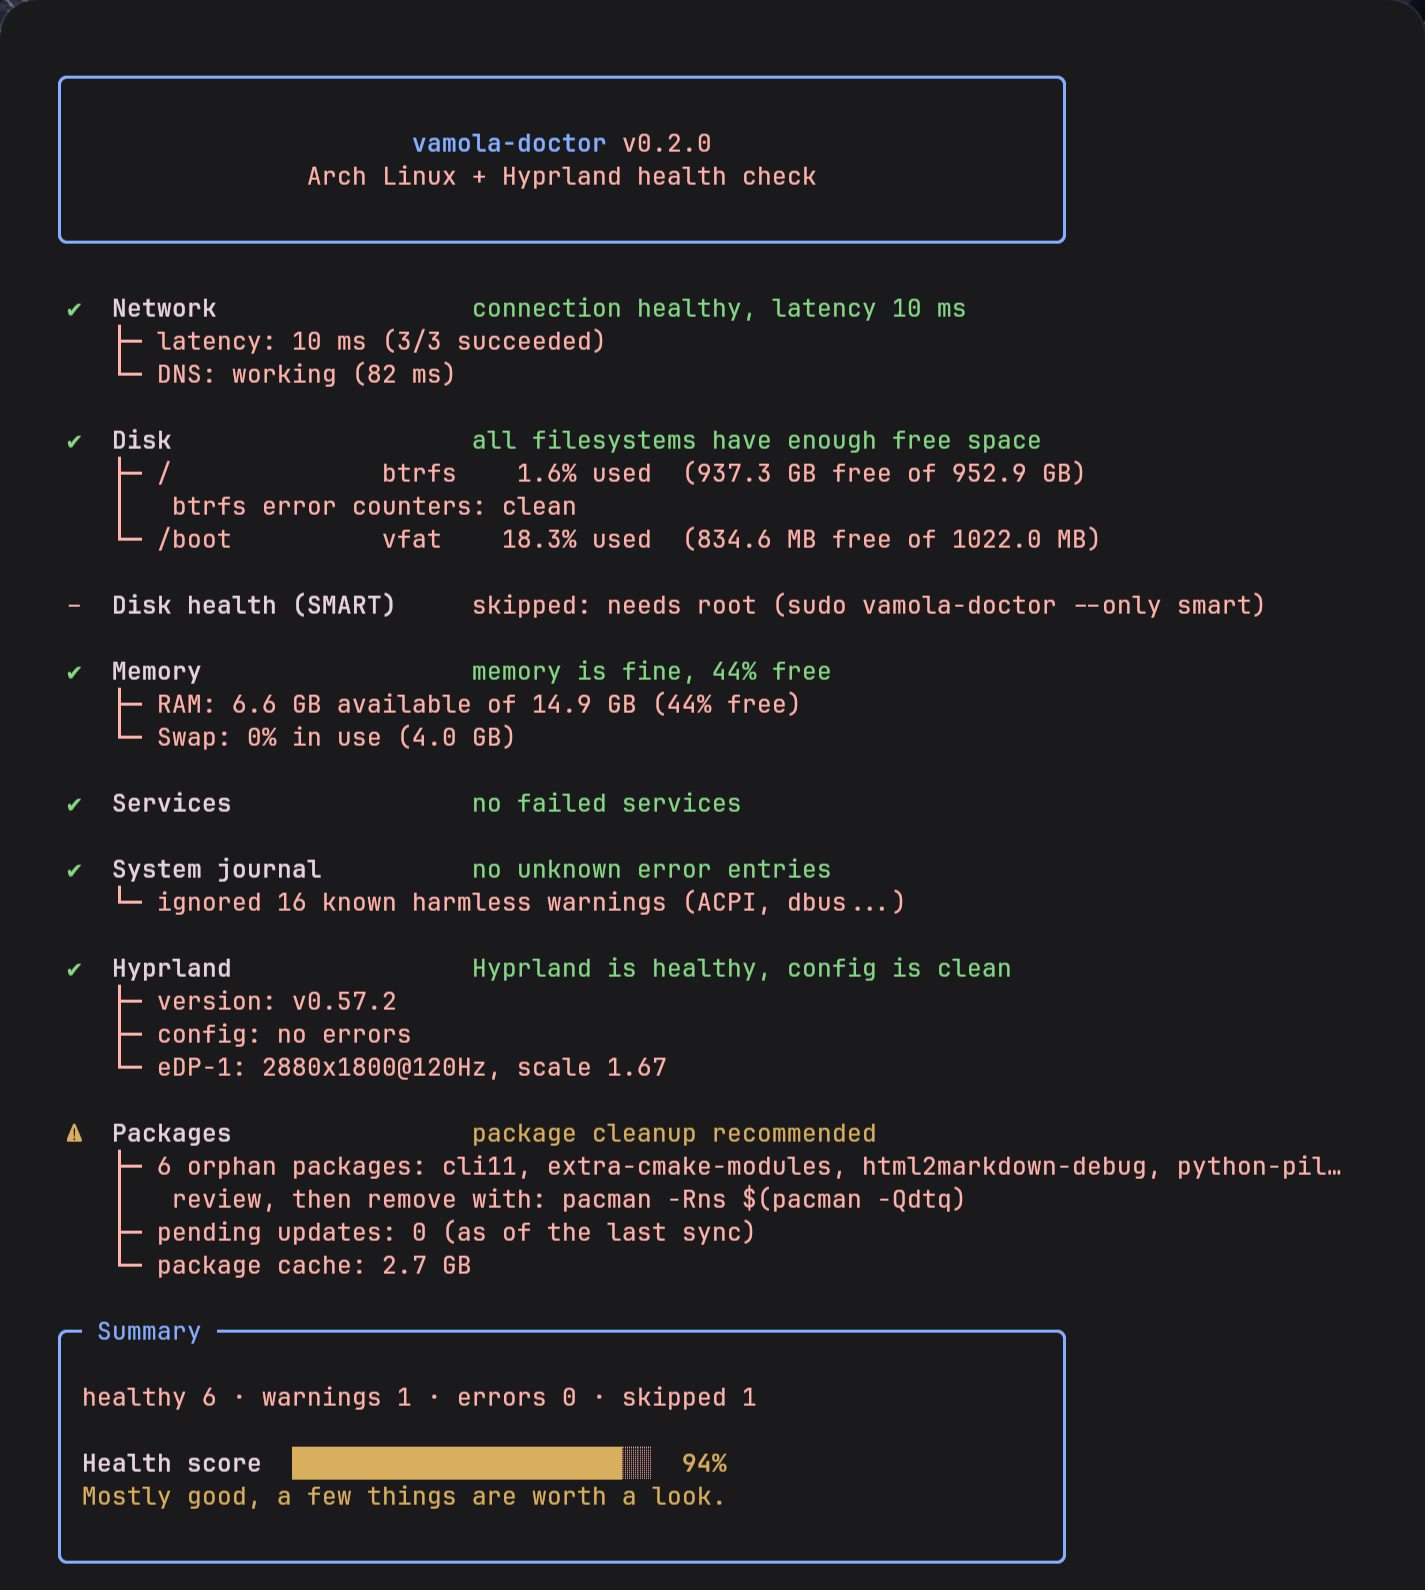
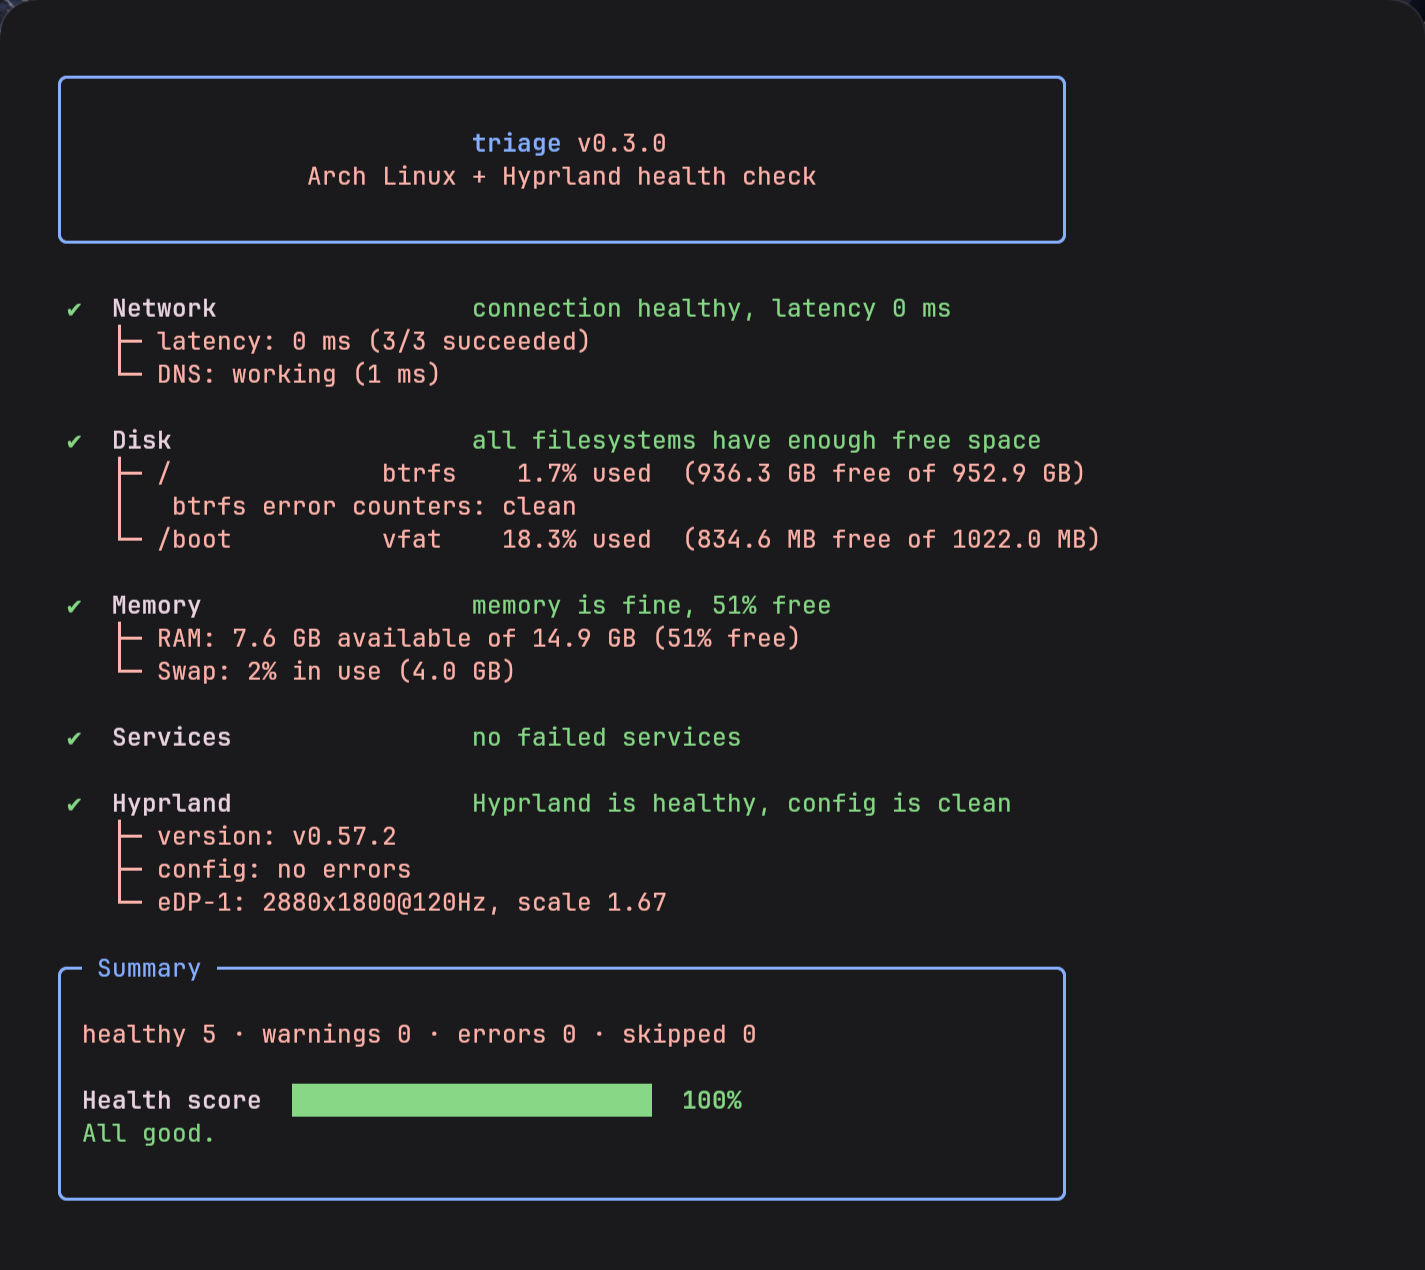
Rename vamola-doctor to triage, v0.3.0: CI, community files, new screenshot

Changed region(s): [[0.0309, 0.1843, 0.8954, 0.9827], [0.0309, 0.0307, 0.7411, 0.1535], [0.8337, 0.7063, 0.9263, 0.737]]

diff --git a/internal/i18n/catalog.go b/internal/i18n/catalog.go
@@ -37,7 +37,7 @@ var catalog = map[Lang]map[string]string{
 		// smart
 		"smart.nocmd":     "smartctl is not installed (smartmontools)",
 		"smart.nodisk":    "no disks found",
-		"smart.denied":    "skipped: needs root (sudo vamola-doctor --only smart)",
+		"smart.denied":    "skipped: needs root (sudo triage --only smart)",
 		"smart.passed":    "SMART: passed",
 		"smart.failed":    "SMART: FAILED",
 		"smart.wear":      "wear %d%%",
@@ -106,7 +106,7 @@ var catalog = map[Lang]map[string]string{
 		"cli.verdict_warn":   "Mostly good, a few things are worth a look.",
 		"cli.verdict_fail":   "Needs attention.",
 		"cli.unknown_module": "unknown module: %q (see --list)",
-		"cli.usage":          "vamola-doctor %s: read-only system health check\n\nUsage: vamola-doctor [options]\n\n",
+		"cli.usage":          "triage %s: read-only system health check\n\nUsage: triage [options]\n\n",
 		"cli.exitcodes":      "\nExit code: 0 clean, 1 warnings, 2 errors, 64 bad usage",
 		"flag.json":          "machine-readable JSON output",
 		"flag.only":          "only these modules, comma separated: network,disk,...",
@@ -154,7 +154,7 @@ var catalog = map[Lang]map[string]string{
 
 		"smart.nocmd":     "smartctl kurulu değil (smartmontools)",
 		"smart.nodisk":    "disk bulunamadı",
-		"smart.denied":    "atlandı: root yetkisi gerekiyor (sudo vamola-doctor --only smart)",
+		"smart.denied":    "atlandı: root yetkisi gerekiyor (sudo triage --only smart)",
 		"smart.passed":    "SMART: geçti",
 		"smart.failed":    "SMART: BAŞARISIZ",
 		"smart.wear":      "aşınma %%%d",
@@ -217,7 +217,7 @@ var catalog = map[Lang]map[string]string{
 		"cli.verdict_warn":   "Genel olarak iyi, birkaç şeye bakmakta fayda var.",
 		"cli.verdict_fail":   "Dikkat gerekiyor.",
 		"cli.unknown_module": "bilinmeyen modül: %q (liste için --list)",
-		"cli.usage":          "vamola-doctor %s: salt okunur sistem sağlık kontrolü\n\nKullanım: vamola-doctor [seçenekler]\n\n",
+		"cli.usage":          "triage %s: salt okunur sistem sağlık kontrolü\n\nKullanım: triage [seçenekler]\n\n",
 		"cli.exitcodes":      "\nÇıkış kodu: 0 temiz, 1 uyarı var, 2 hata var, 64 hatalı kullanım",
 		"flag.json":          "makine okunur JSON çıktısı",
 		"flag.only":          "yalnızca bu modüller, virgülle: network,disk,...",

diff --git a/cmd/triage/main.go b/cmd/triage/main.go
@@ -1,4 +1,4 @@
-// vamola-doctor: a read-only system health check for Arch Linux + Hyprland.
+// triage: a read-only system health check for Arch Linux + Hyprland.
 package main
 
 import (
@@ -11,12 +11,12 @@ import (
 	"strings"
 	"time"
 
-	"github.com/vam0laa/vamola-doctor/internal/check"
-	"github.com/vam0laa/vamola-doctor/internal/i18n"
-	"github.com/vam0laa/vamola-doctor/internal/ui"
+	"github.com/vam0laa/triage/internal/check"
+	"github.com/vam0laa/triage/internal/i18n"
+	"github.com/vam0laa/triage/internal/ui"
 )
 
-const version = "0.2.0"
+const version = "0.3.0"
 
 func isTTY(f *os.File) bool {
 	st, err := f.Stat()
@@ -116,7 +116,7 @@ func main() {
 	flag.Parse()
 
 	if *showVer {
-		fmt.Println("vamola-doctor", version)
+		fmt.Println("triage", version)
 		return
 	}
 	all := check.All()

diff --git a/internal/ui/ui.go b/internal/ui/ui.go
@@ -11,8 +11,8 @@ import (
 	"unicode/utf8"
 	"unsafe"
 
-	"github.com/vam0laa/vamola-doctor/internal/check"
-	"github.com/vam0laa/vamola-doctor/internal/i18n"
+	"github.com/vam0laa/triage/internal/check"
+	"github.com/vam0laa/triage/internal/i18n"
 )
 
 // Style controls how the report is drawn.
@@ -159,7 +159,7 @@ func Render(w io.Writer, version string, cs []check.Check, rs []check.Result, s 
 	// Banner
 	fmt.Fprint(w, s.box("", []string{
 		"",
-		s.center(s.paint(cBold+";"+cAccent, "vamola-doctor") + " " + s.paint(cDim, "v"+version)),
+		s.center(s.paint(cBold+";"+cAccent, "triage") + " " + s.paint(cDim, "v"+version)),
 		s.center(s.paint(cDim, i18n.T("cli.subtitle"))),
 		"",
 	}))

diff --git a/internal/i18n/i18n.go b/internal/i18n/i18n.go
@@ -69,7 +69,7 @@ func prefPath() (string, error) {
 	if err != nil {
 		return "", err
 	}
-	return filepath.Join(d, "vamola-doctor", "lang"), nil
+	return filepath.Join(d, "triage", "lang"), nil
 }
 
 // Saved returns the language stored by a previous run, if any.
@@ -80,7 +80,13 @@ func Saved() (Lang, bool) {
 	}
 	b, err := os.ReadFile(p)
 	if err != nil {
-		return EN, false
+		// the tool used to be called vamola-doctor: keep the language the user already chose
+		if d, derr := os.UserConfigDir(); derr == nil {
+			b, err = os.ReadFile(filepath.Join(d, "vamola-doctor", "lang"))
+		}
+		if err != nil {
+			return EN, false
+		}
 	}
 	return Parse(string(b))
 }

diff --git a/internal/i18n/i18n_test.go b/internal/i18n/i18n_test.go
@@ -1,6 +1,8 @@
 package i18n
 
 import (
+	"os"
+	"path/filepath"
 	"regexp"
 	"testing"
 )
@@ -48,5 +50,15 @@ func TestTFallback(t *testing.T) {
 	}
 	if T("net.down") != "internete ulaşılamıyor" {
 		t.Error("TR lookup failed")
+	}
+}
+
+func TestSavedFallsBackToTheOldToolName(t *testing.T) {
+	dir := t.TempDir()
+	t.Setenv("XDG_CONFIG_HOME", dir)
+	os.MkdirAll(filepath.Join(dir, "vamola-doctor"), 0o755)
+	os.WriteFile(filepath.Join(dir, "vamola-doctor", "lang"), []byte("tr\n"), 0o644)
+	if l, ok := Saved(); !ok || l != TR {
+		t.Fatalf("the language chosen under the old name must still be used, got %v %v", l, ok)
 	}
 }

diff --git a/internal/check/check.go b/internal/check/check.go
@@ -1,4 +1,4 @@
-// Package check contains the health checks of vamola-doctor.
+// Package check contains the health checks of triage.
 // Every check is read-only: it never changes anything on the system.
 package check
 
@@ -8,7 +8,7 @@ import (
 	"strings"
 	"time"
 
-	"github.com/vam0laa/vamola-doctor/internal/i18n"
+	"github.com/vam0laa/triage/internal/i18n"
 )
 
 // Status is the outcome of a check. A higher value is worse (except Skip).

diff --git a/internal/check/disk.go b/internal/check/disk.go
@@ -8,7 +8,7 @@ import (
 	"strings"
 	"syscall"
 
-	"github.com/vam0laa/vamola-doctor/internal/i18n"
+	"github.com/vam0laa/triage/internal/i18n"
 )
 
 var realFS = map[string]bool{"ext4": true, "btrfs": true, "xfs": true, "f2fs": true, "vfat": true, "ntfs3": true, "exfat": true}

diff --git a/internal/check/packages.go b/internal/check/packages.go
@@ -7,7 +7,7 @@ import (
 	"path/filepath"
 	"strings"
 
-	"github.com/vam0laa/vamola-doctor/internal/i18n"
+	"github.com/vam0laa/triage/internal/i18n"
 )
 
 // dirSize returns the total size of a directory in bytes, skipping unreadable parts.

diff --git a/internal/check/journal.go b/internal/check/journal.go
@@ -5,7 +5,7 @@ import (
 	"regexp"
 	"strings"
 
-	"github.com/vam0laa/vamola-doctor/internal/i18n"
+	"github.com/vam0laa/triage/internal/i18n"
 )
 
 // harmless lists known, benign journal lines that are separated from real errors.

diff --git a/internal/check/memory.go b/internal/check/memory.go
@@ -6,7 +6,7 @@ import (
 	"strconv"
 	"strings"
 
-	"github.com/vam0laa/vamola-doctor/internal/i18n"
+	"github.com/vam0laa/triage/internal/i18n"
 )
 
 // parseMeminfo turns /proc/meminfo into a map of values in kB.

diff --git a/internal/check/network.go b/internal/check/network.go
@@ -8,7 +8,7 @@ import (
 	"sort"
 	"time"
 
-	"github.com/vam0laa/vamola-doctor/internal/i18n"
+	"github.com/vam0laa/triage/internal/i18n"
 )
 
 // Network measures latency, DNS and (optionally) download speed.

diff --git a/internal/check/services.go b/internal/check/services.go
@@ -4,7 +4,7 @@ import (
 	"context"
 	"strings"
 
-	"github.com/vam0laa/vamola-doctor/internal/i18n"
+	"github.com/vam0laa/triage/internal/i18n"
 )
 
 // Services lists failed systemd units (system and user).
